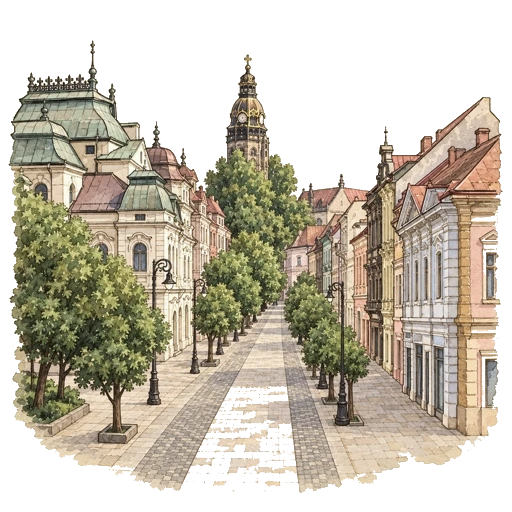
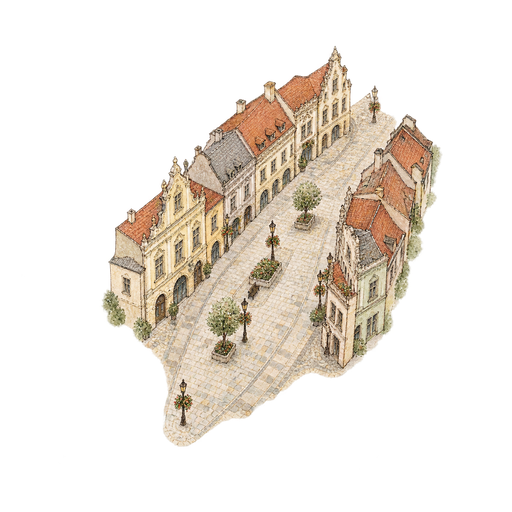
Košicen Hlavna-kadun miniatyyri yhtenaiseksi

diff --git a/docs/raportit/kosice-miniatyyrit-tyyliaudit-20260927.md b/docs/raportit/kosice-miniatyyrit-tyyliaudit-20260927.md
@@ -1,0 +1,28 @@
+# Košicen miniatyyrien tyyliaudit 27.9.2026
+
+Kaupungissa on kahdeksan paikallista WebP-miniatyyriä eikä nykyisiä R2-viitteitä. Vertailukohtana ovat hyväksytyt Ateenan viistot, hillityt muste-vesiväripienoismallit. Koko kaupungin ennen/jälkeen-kontaktiarkki: [Košicen kahdeksan kohdetta](kuvat/kosice-miniatyyrit-ennen-jalkeen-20260927.jpg).
+
+| Kohde | Päätös | 512×512 / alfa | Täyttö | Reuna | SHA-256 alku |
+| --- | --- | --- | ---: | ---: | --- |
+| `kosice-hlavn-katu` | uusittu | RGBA, 0–255 | 0.298 | 0.000 | `1dcdf150e95aa356` |
+| `kosice-immaculata` | säilytetty | RGBA, 0–255 | 0.203 | 0.000 | `f9107fdc915ff987` |
+| `kosice-jakabin-palatsi` | säilytetty | RGBA, 0–255 | 0.392 | 0.000 | `fcc2ce6f7a9c5528` |
+| `kosice-miklu-in-vankila` | säilytetty | RGBA, 0–255 | 0.531 | 0.000 | `9ae4621485ff8577` |
+| `kosice-pyhan-elisabetin-tuomiokirkko` | säilytetty | RGBA, 0–255 | 0.513 | 0.000 | `0c95a852004175c9` |
+| `kosice-pyovelin-bastioni` | säilytetty | RGBA, 0–255 | 0.389 | 0.006 | `9333766544c66b0d` |
+| `kosice-urbanin-torni` | säilytetty | RGBA, 0–255 | 0.240 | 0.000 | `0ac59e98a9658c76` |
+| `kosice-valtionteatteri` | säilytetty | RGBA, 0–255 | 0.548 | 0.000 | `5d93edbfe5088941` |
+
+## Korjattu poikkeus
+
+`kosice-hlavn-katu.webp` oli pitkä katunäkymä perspektiivin katoamispisteeseen. Pelin nostoteksti kuvaa keskiaikaisesta torista syntynyttä Hlavná-katua keskeltä leveänä ja päistä kapenevana. Uusi kuva esittää lyhyen eristetyn kävelykadun pienoismallin viistosta ylhäältä. Se jättää erillisinä karttapaikkoina merkityt tuomiokirkon ja teatterin pois. Seitsemän muuta kuvaa olivat jo eristettyjä fyysisiä paikkoja samalla hillityllä piirrosilmeellä, joten niitä ei muutettu.
+
+ImageGen tuotti kaksi alusta asti uutta ehdokasta. Ensimmäinen oli liian terävä ja värikylläinen suhteessa kaupungin muuhun sarjaan; se säilyy hylättynä. Toinen hyväksyttiin kaupungin koko sarjan kontaktivertailussa. Vanha kuva, molemmat raaka-PNG:t ja hylätty WebP ovat `output/style-audit-europe-20260927/kosice/`-kansiossa.
+
+## QA ja rajat
+
+Uusi kuva on 512×512 lossless WebP, RGBA, upotettu sRGB-profiili, alfa 0–255 ja kaikki neljä kulmaa läpinäkyviä. Leikkausmitta täyttö 0,298 ja reuna 0,000; rajauspoikkeuksia ei havaittu. Muutos koskee vain yhtä kuvaa ja sitä vastaavaa `tools/miniatyyri-mitat.json`-riviä. Kuvassa ei ole taivasta, horisonttia, ympäröivää maisemaa, tekstiä eikä irtonaisia esineitä.
+
+Lähteet: `js/packs/miniatyyrit.js` (kaupungin kahdeksan paikallista kuvaa), `js/packs/maakartat.js` ja `js/packs/nahtavyysjutut.js` (Hlavnán karttapaikka ja tarinateksti), 27.9.2026 kuvaputken tyyliuudistustilaus ja tyylilista commitissa `389efbb3`.
+
+AGENTS-portit: kaksoisavaimet, niputus, savukkeet ja nimiolimitys läpäisivät. Koko `node --test tests/*.test.mjs`: 4 498 testiä, 4 483 läpäisi, 15 ohitettiin, 0 epäonnistui (testattu väliaikaisessa polussa ilman välilyöntejä).
